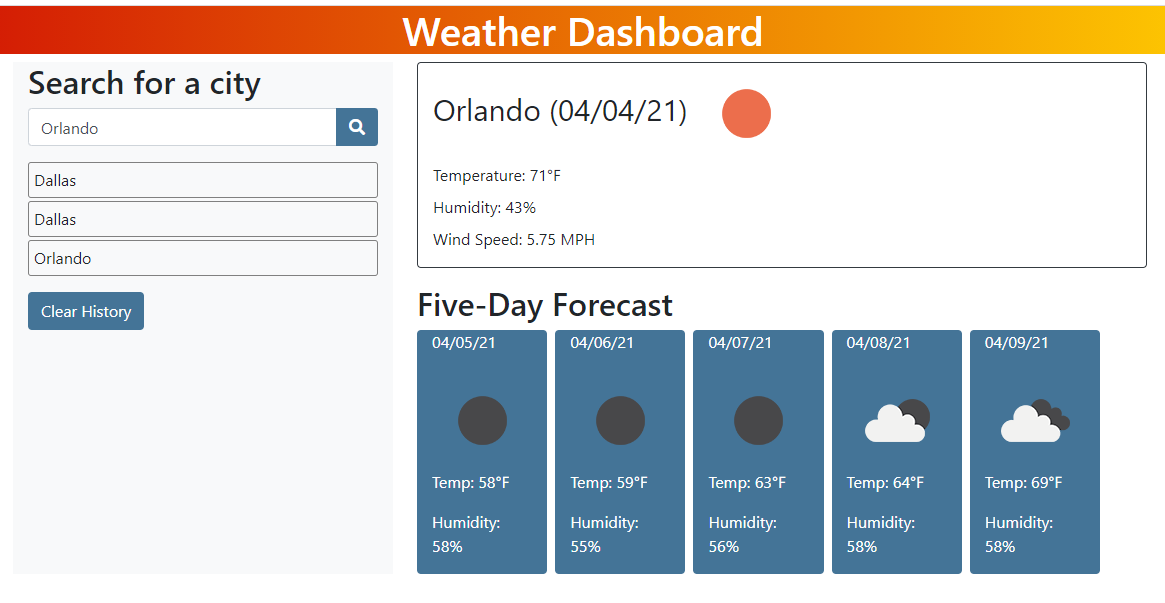
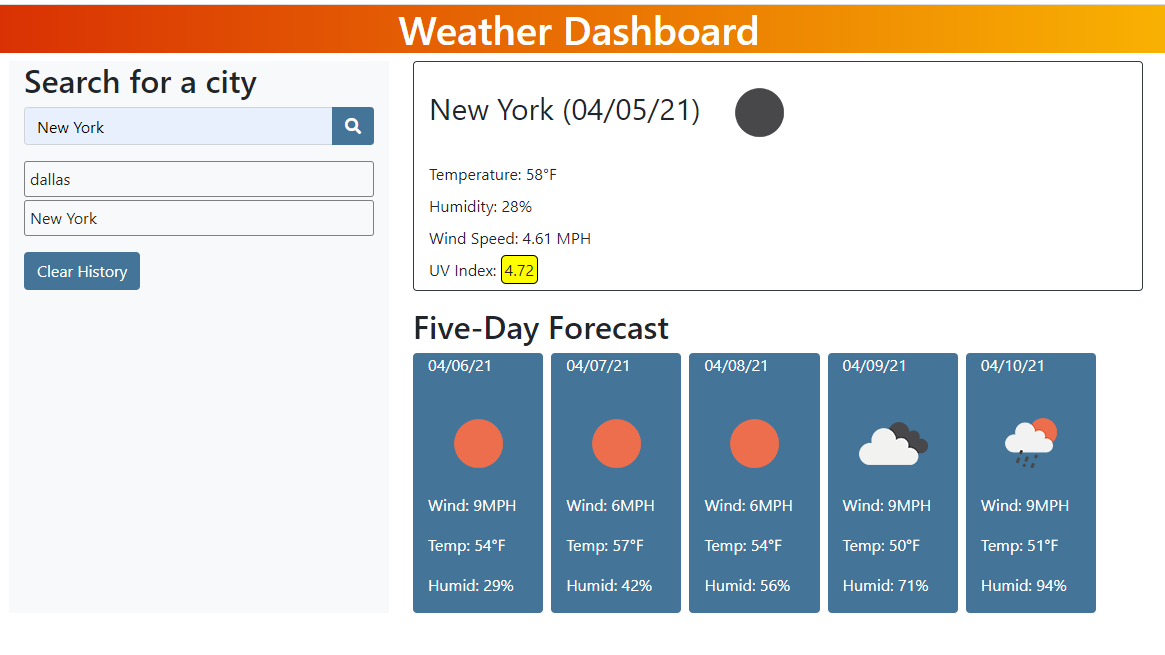
add UV Index

diff --git a/assets/js/script.js b/assets/js/script.js
@@ -73,6 +73,32 @@ var renderWeather = function (city) {
         todayWindEl.innerHTML = 'Wind Speed: ' + todayData.wind.speed + ' MPH';
         windSpeedEl.appendChild(todayWindEl)
 
+        var lat = todayData.coord.lat
+        var longitude = todayData.coord.lon
+        var uvIndexURL = 'http://api.openweathermap.org/data/2.5/uvi?lat=' + lat + '&lon=' + longitude + '&appid=' + apiKey
+
+        //UV Index
+        fetch(uvIndexURL)
+          .then(function (response) {
+            response.json().then(function (uvData) {
+              var severity = ""
+              if (uvData.value <= 2) {
+                severity = 'favorable'
+              } else if (uvData.value <= 7) {
+                severity = 'moderate'
+              } else {
+                severity = 'severe'
+              }
+              var todayUvi = document.createElement("span");
+              uvIndexEl.innerHTML = " "
+              todayUvi.innerHTML = 'UV Index: <span class =' + severity + '>' + uvData.value + '</span>';
+              uvIndexEl.appendChild(todayUvi)
+
+              console.log('uv', uvData)
+            })
+          })
+
+
         console.log(todayData)
       })
     })

diff --git a/assets/css/styles.css b/assets/css/styles.css
@@ -31,3 +31,29 @@ li:hover {
 .forecast {
   width: 400px;
 }
+.severe {
+  background-color: red;
+  color: white;
+  border-style: solid;
+  border-color: black;
+  border-width: 1px;
+  border-radius: 5px;
+  padding: 3px;
+}
+.moderate{
+  background-color: yellow;
+  border-style: solid;
+  border-color: black;
+  border-width: 1px;
+  border-radius: 5px;
+  padding: 3px;
+}
+.favorable {
+  background-color: green;
+  color: white;
+  border-style: solid;
+  border-color: black;
+  border-width: 1px;
+  border-radius: 5px;
+  padding: 3px;
+}

diff --git a/assets/css/style.css b/assets/css/style.css
@@ -1,0 +1,26 @@
+* {
+  margin: 0;
+  padding: 0;
+  box-sizing: border-box;
+}
+:root{
+  --blue: #007bff;
+}
+
+button {
+  color: white;
+  background-color: var(--blue);
+  border-width: 0px;
+  padding: 10px;
+  margin-bottom: 15px;
+  
+}
+
+button.search-btn {
+  border-radius: 0px 10px 10px 0px ;
+  border-width: 0px;
+}
+
+button.history-btn {
+  
+}
